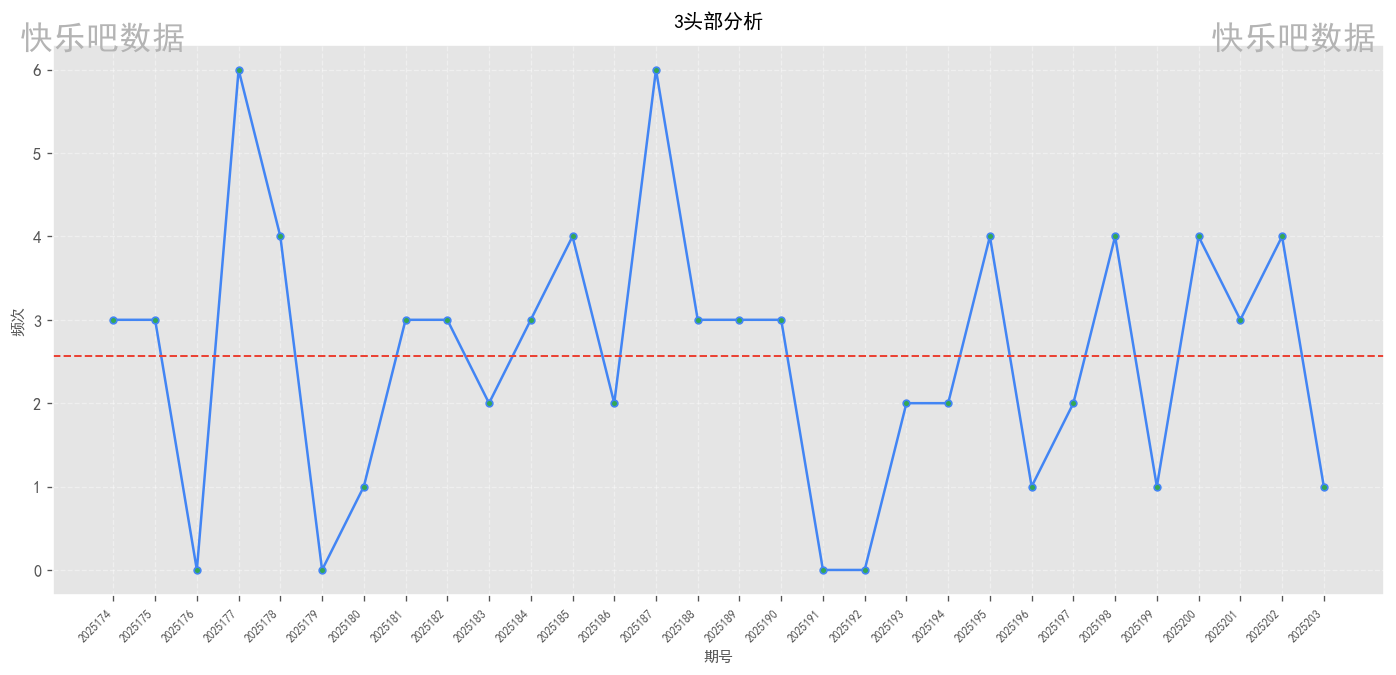
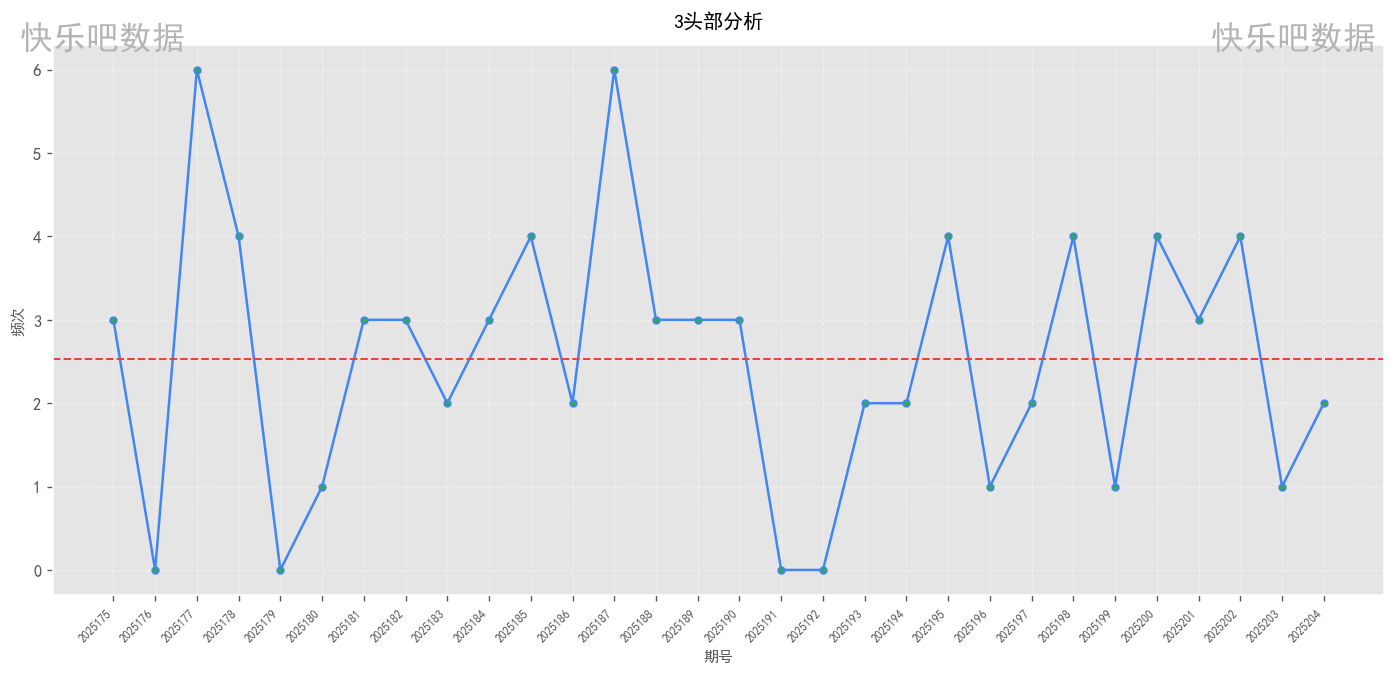
自动提交报告 20250802_2239

diff --git a/快乐8头号分析项目/数据报告/20250802/report.html b/快乐8头号分析项目/数据报告/20250802/report.html
@@ -440,7 +440,7 @@
                     <div class="label">头部区间</div>
                 </div>
                 <div class="overview-card">
-                    <div class="value">2025203</div>
+                    <div class="value">2025204</div>
                     <div class="label">最新期号</div>
                 </div>
                 <div class="overview-card">
@@ -468,7 +468,7 @@
                 </div>
                 <div class="stat-item">
                     <span class="stat-label">近期平均</span>
-                    <span class="stat-value">2.20</span>
+                    <span class="stat-value">2.40</span>
                 </div>
                 <div class="stat-item">
                     <span class="stat-label">最高频次</span>
@@ -486,11 +486,11 @@
             <div class="stats-summary">
                 <div class="stat-item">
                     <span class="stat-label">历史平均</span>
-                    <span class="stat-value">2.47</span>
+                    <span class="stat-value">2.43</span>
                 </div>
                 <div class="stat-item">
                     <span class="stat-label">近期平均</span>
-                    <span class="stat-value">2.60</span>
+                    <span class="stat-value">2.00</span>
                 </div>
                 <div class="stat-item">
                     <span class="stat-label">最高频次</span>
@@ -508,11 +508,11 @@
             <div class="stats-summary">
                 <div class="stat-item">
                     <span class="stat-label">历史平均</span>
-                    <span class="stat-value">2.50</span>
+                    <span class="stat-value">2.57</span>
                 </div>
                 <div class="stat-item">
                     <span class="stat-label">近期平均</span>
-                    <span class="stat-value">2.40</span>
+                    <span class="stat-value">2.60</span>
                 </div>
                 <div class="stat-item">
                     <span class="stat-label">最高频次</span>
@@ -530,11 +530,11 @@
             <div class="stats-summary">
                 <div class="stat-item">
                     <span class="stat-label">历史平均</span>
-                    <span class="stat-value">2.57</span>
+                    <span class="stat-value">2.53</span>
                 </div>
                 <div class="stat-item">
                     <span class="stat-label">近期平均</span>
-                    <span class="stat-value">2.60</span>
+                    <span class="stat-value">2.80</span>
                 </div>
                 <div class="stat-item">
                     <span class="stat-label">最高频次</span>
@@ -552,11 +552,11 @@
             <div class="stats-summary">
                 <div class="stat-item">
                     <span class="stat-label">历史平均</span>
-                    <span class="stat-value">2.20</span>
+                    <span class="stat-value">2.17</span>
                 </div>
                 <div class="stat-item">
                     <span class="stat-label">近期平均</span>
-                    <span class="stat-value">2.40</span>
+                    <span class="stat-value">2.60</span>
                 </div>
                 <div class="stat-item">
                     <span class="stat-label">最高频次</span>
@@ -574,11 +574,11 @@
             <div class="stats-summary">
                 <div class="stat-item">
                     <span class="stat-label">历史平均</span>
-                    <span class="stat-value">2.77</span>
+                    <span class="stat-value">2.83</span>
                 </div>
                 <div class="stat-item">
                     <span class="stat-label">近期平均</span>
-                    <span class="stat-value">2.20</span>
+                    <span class="stat-value">2.60</span>
                 </div>
                 <div class="stat-item">
                     <span class="stat-label">最高频次</span>
@@ -596,11 +596,11 @@
             <div class="stats-summary">
                 <div class="stat-item">
                     <span class="stat-label">历史平均</span>
-                    <span class="stat-value">2.20</span>
+                    <span class="stat-value">2.17</span>
                 </div>
                 <div class="stat-item">
                     <span class="stat-label">近期平均</span>
-                    <span class="stat-value">2.80</span>
+                    <span class="stat-value">2.60</span>
                 </div>
                 <div class="stat-item">
                     <span class="stat-label">最高频次</span>
@@ -622,7 +622,7 @@
                 </div>
                 <div class="stat-item">
                     <span class="stat-label">近期平均</span>
-                    <span class="stat-value">2.40</span>
+                    <span class="stat-value">2.20</span>
                 </div>
                 <div class="stat-item">
                     <span class="stat-label">最高频次</span>
@@ -644,7 +644,7 @@
                 </div>
                 <div class="stat-item">
                     <span class="stat-label">近期平均</span>
-                    <span class="stat-value">0.40</span>
+                    <span class="stat-value">0.20</span>
                 </div>
                 <div class="stat-item">
                     <span class="stat-label">最高频次</span>
@@ -668,7 +668,7 @@
         <div class="disclaimer">
             <div class="disclaimer-title"><i class="fas fa-exclamation-circle"></i> 法律声明</div>
             <p>本分析报告基于中国福利彩票官网公开数据制作，仅供历史数据分析与参考，严禁用于赌博或任何违法违规用途。</p>
-            <p>根据中国法律，禁止向未成年人传播彩票相关信息。数据统计周期: 2025174期-2025203期 | 生成时间: 2025-08-02 03:00</p>
+            <p>根据中国法律，禁止向未成年人传播彩票相关信息。数据统计周期: 2025175期-2025204期 | 生成时间: 2025-08-02 22:39</p>
         </div>
 
         <!-- 操作按钮 -->

diff --git a/index.html b/index.html
@@ -51,7 +51,7 @@
                 立即查看今日报告
             </a>
         </p>
-        <p>生成时间: 2025-08-02 03:00</p>
+        <p>生成时间: 2025-08-02 22:39</p>
     </div>
 
     <script>
